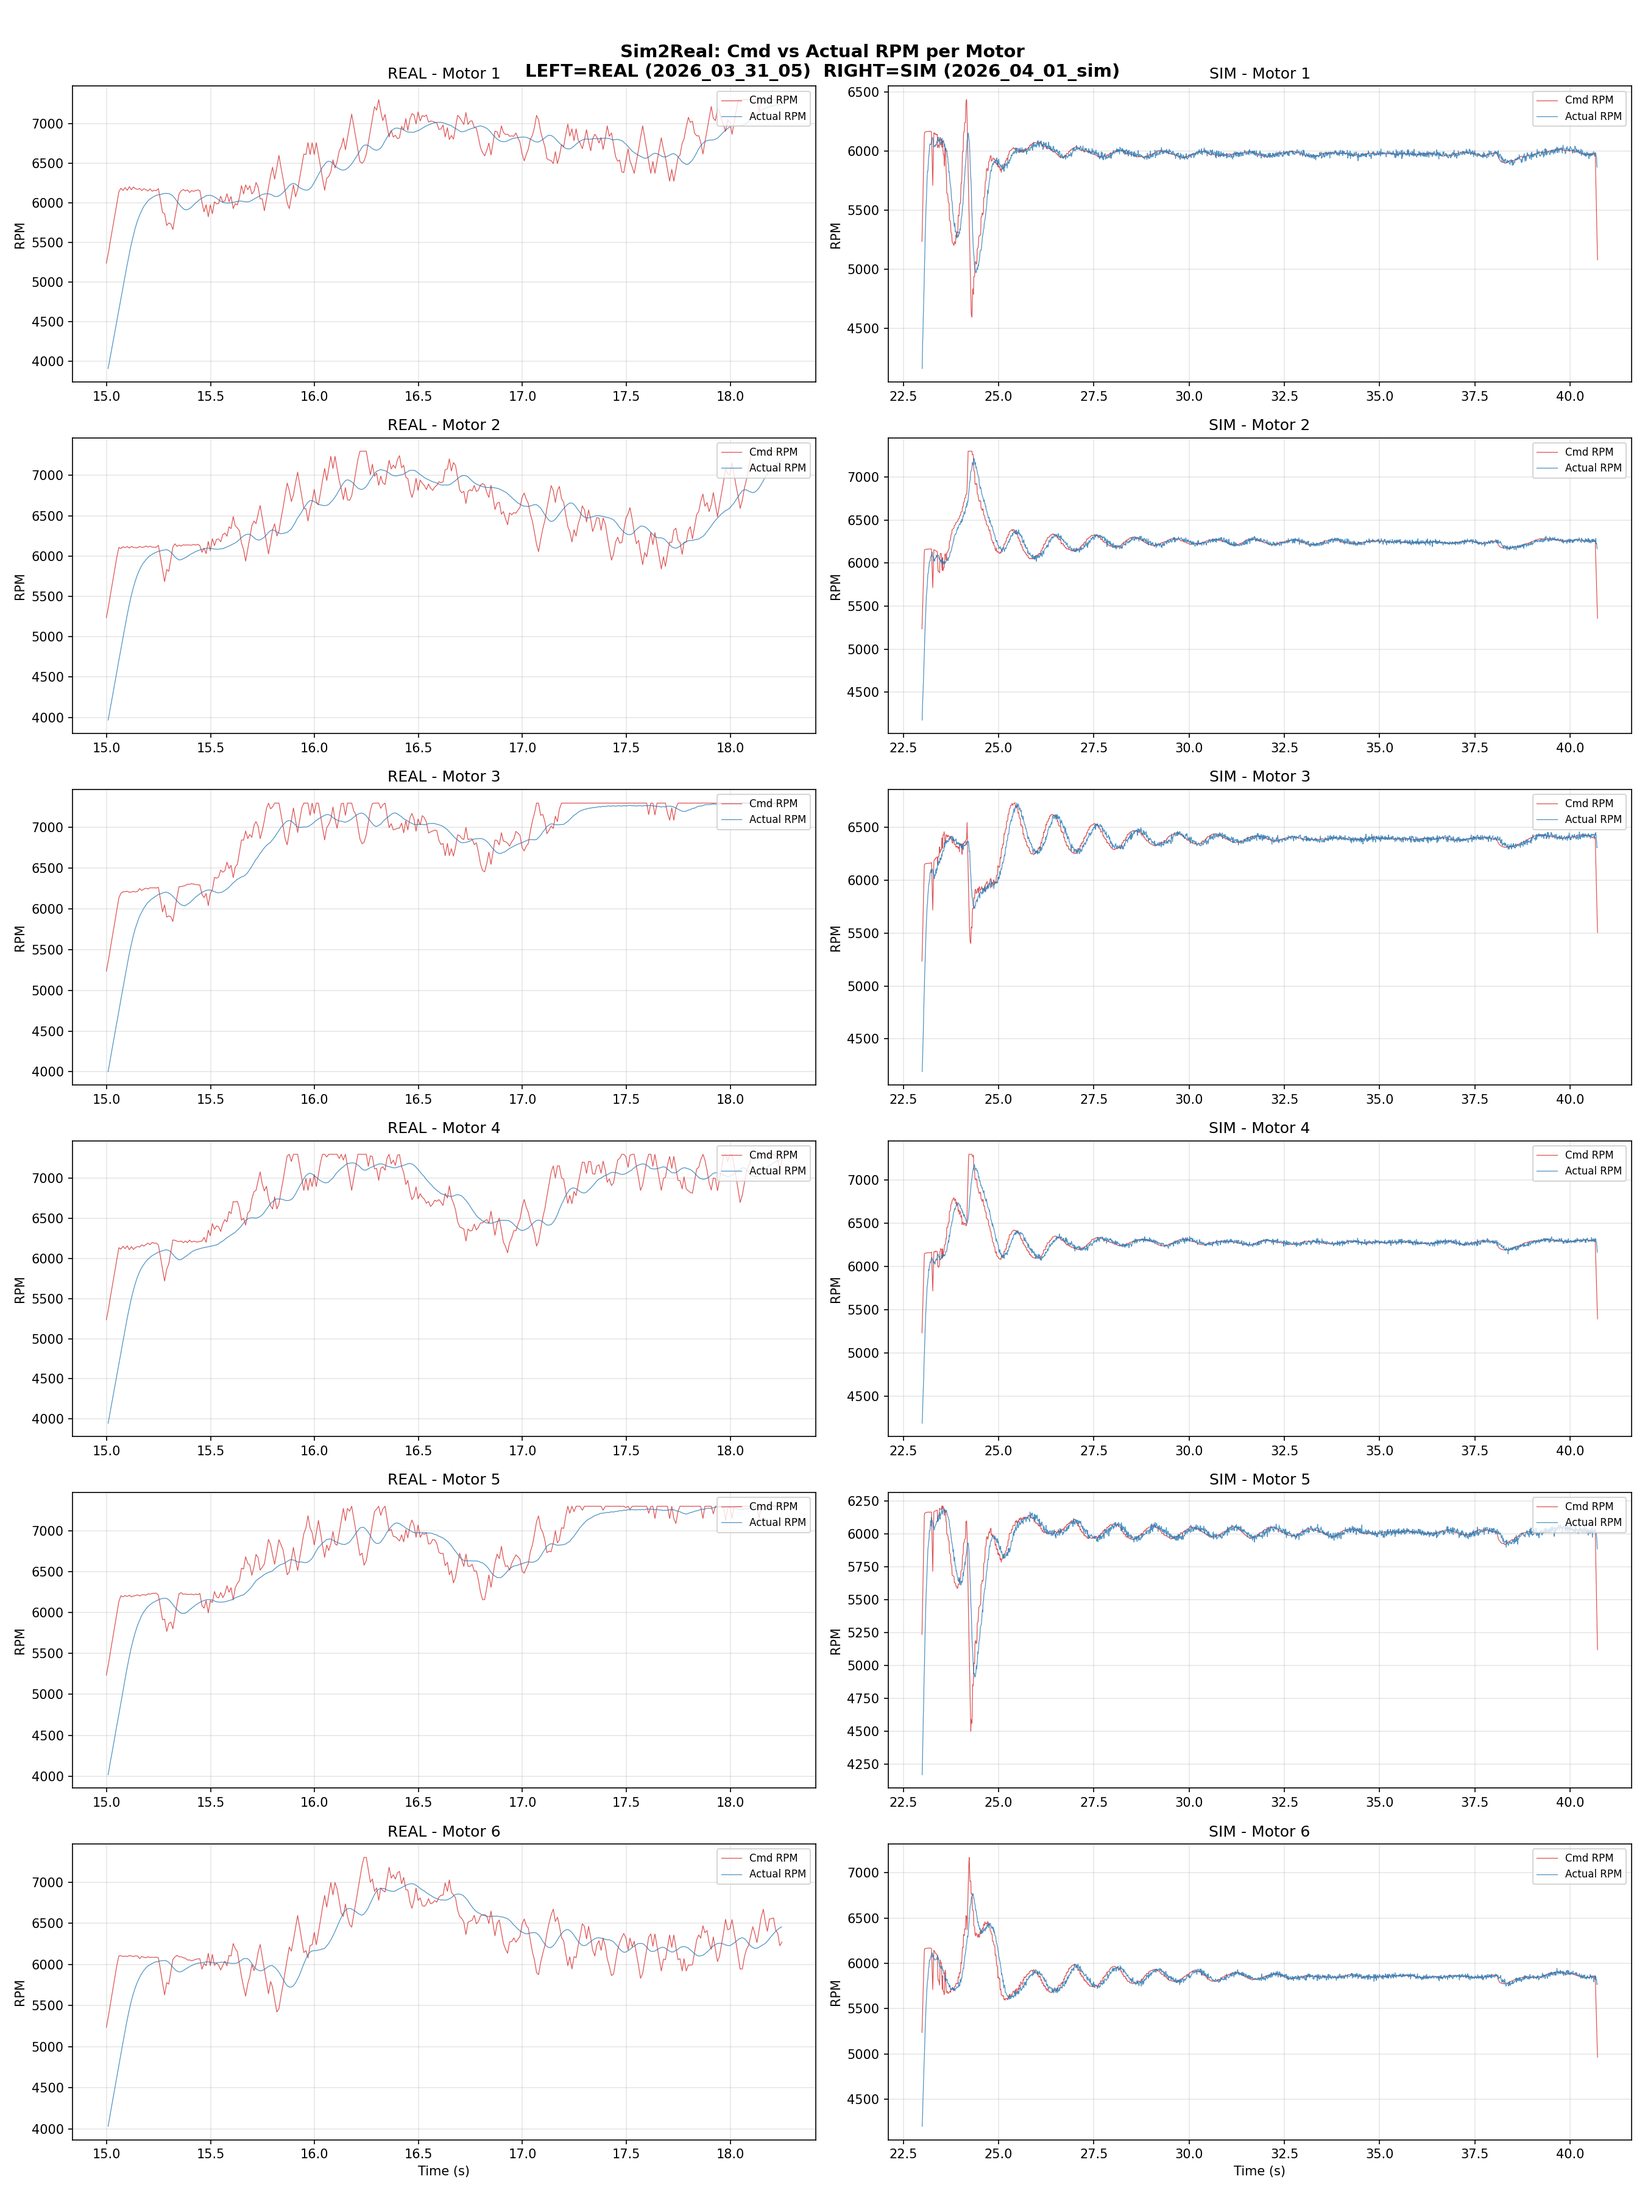
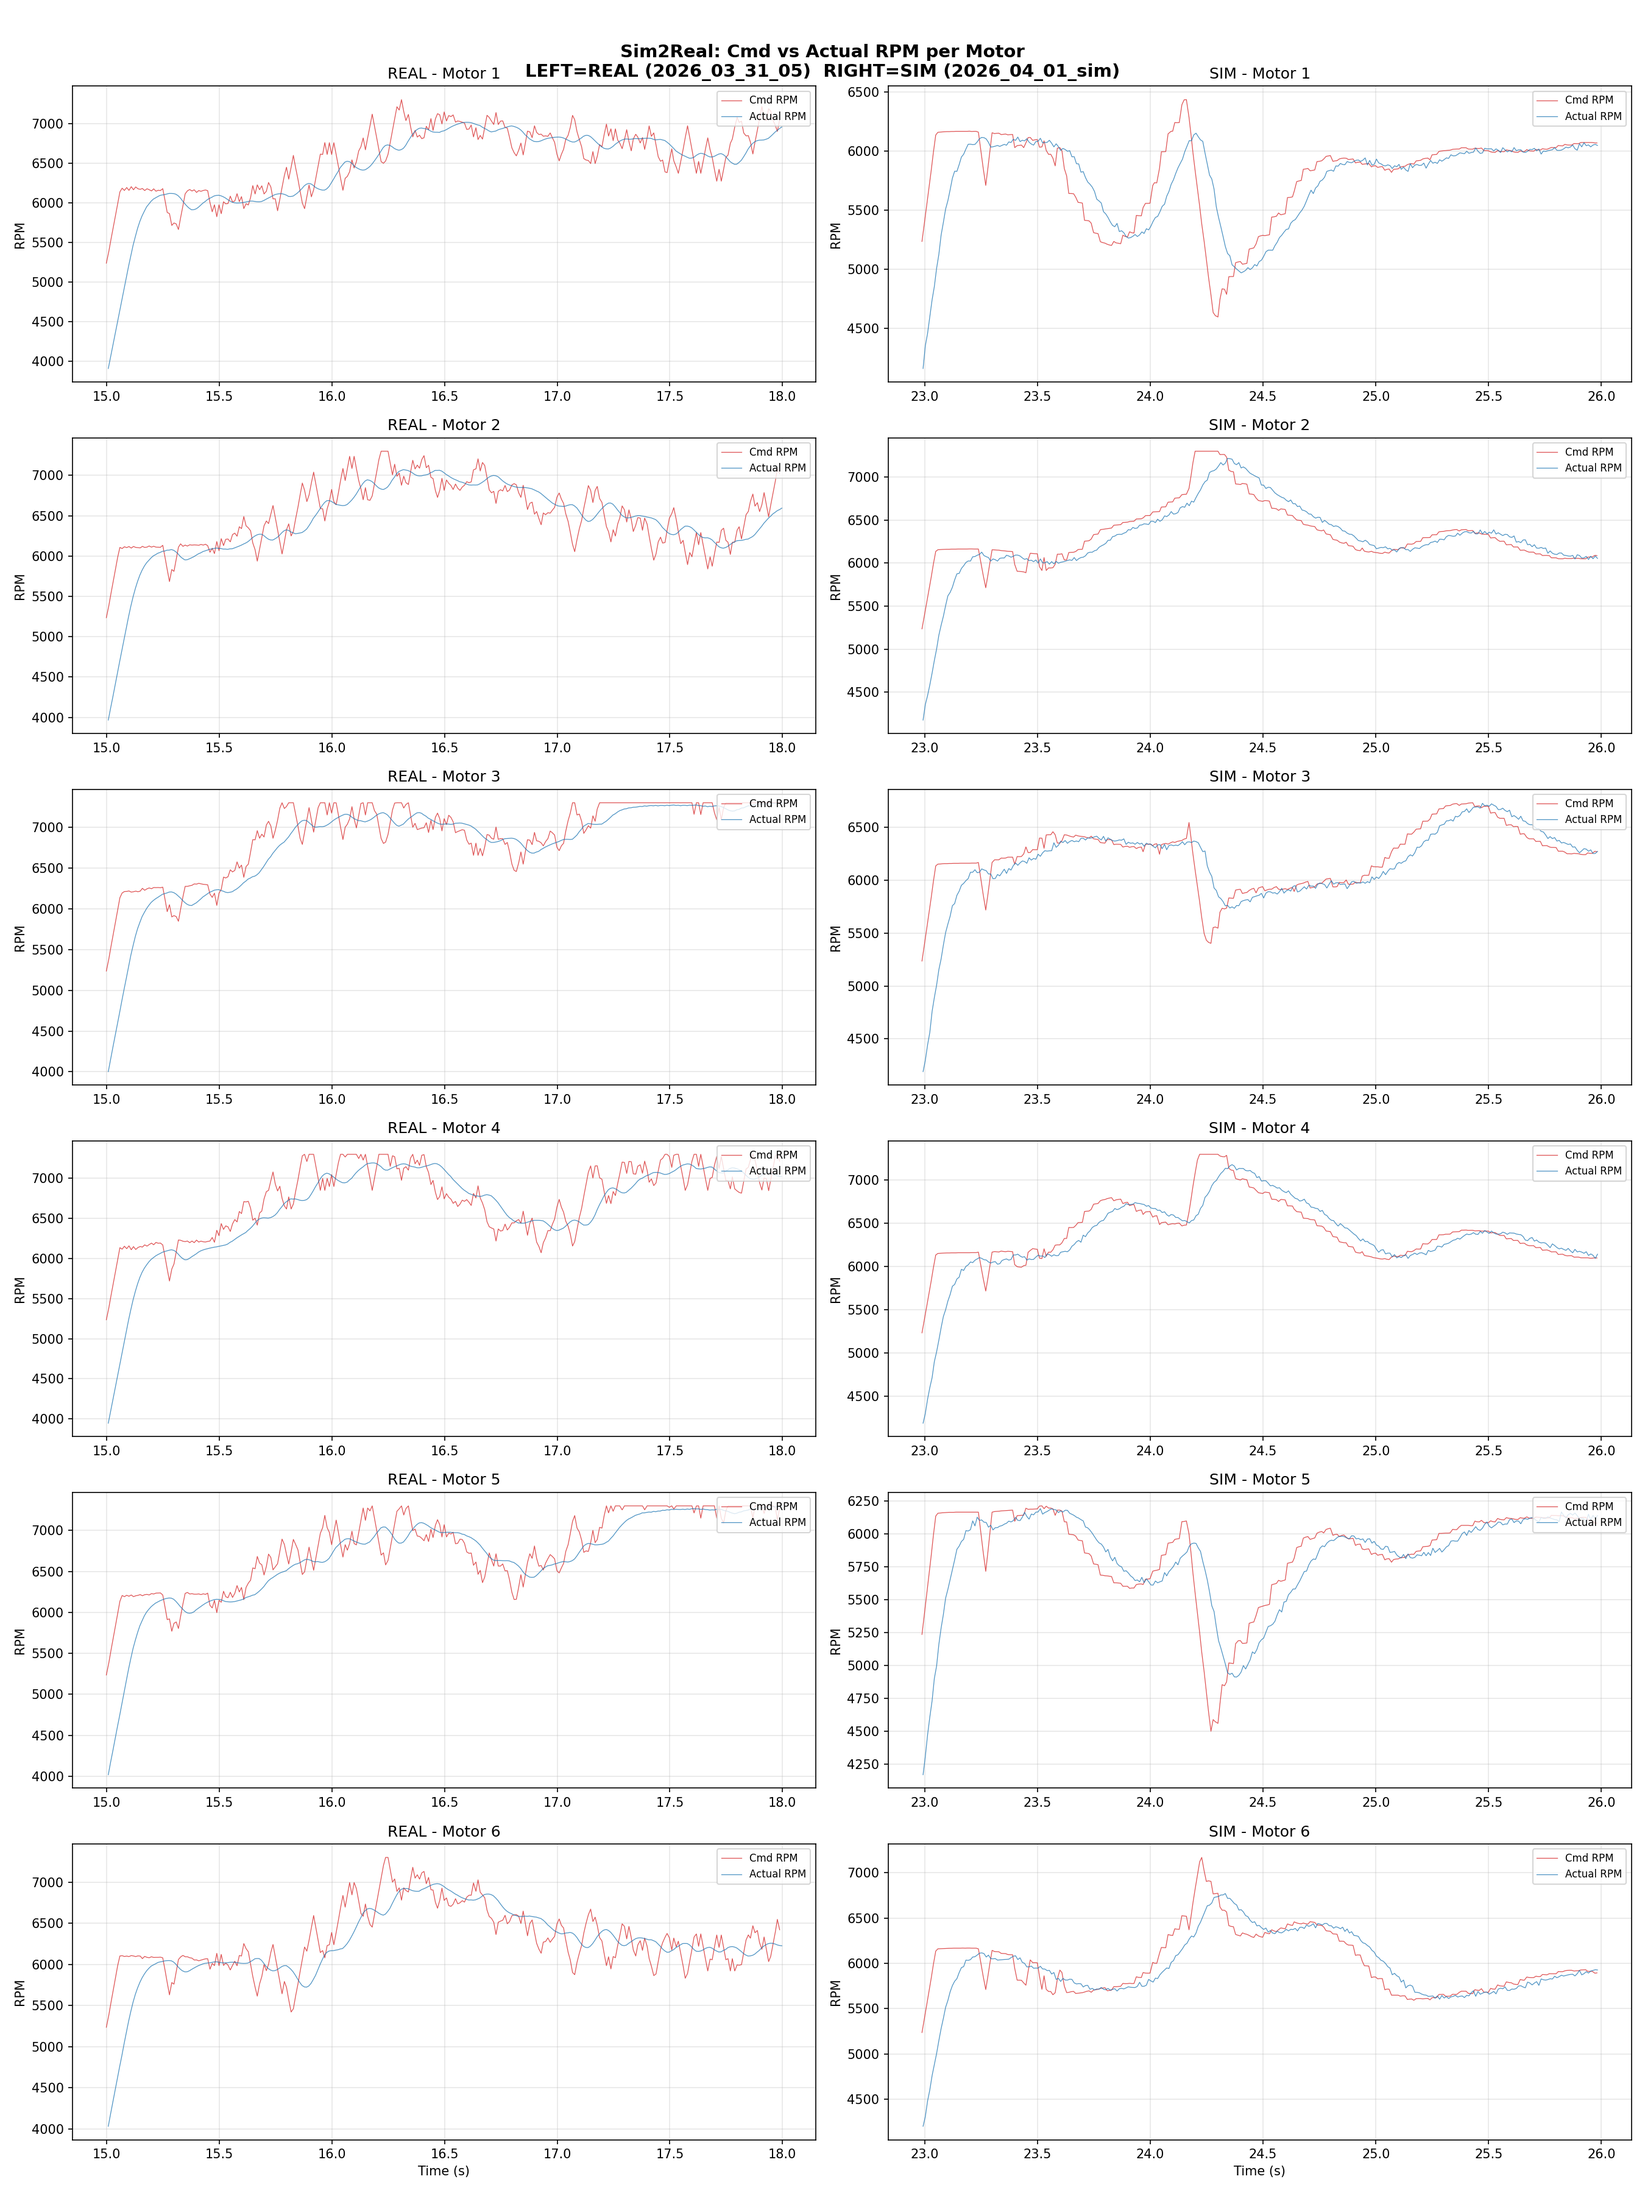
Limit RPM plot to 3s duration from flight start for clearer comparison
https://claude.ai/code/session_015hDTXF7MWidPDJrsc9iZ1y

diff --git a/bag_folder/sim2real_comparison.py b/bag_folder/sim2real_comparison.py
@@ -433,9 +433,10 @@ fig, axes = plt.subplots(6, 2, figsize=(18, 24))
 fig.suptitle('Sim2Real: Cmd vs Actual RPM per Motor\n'
              'LEFT=REAL (2026_03_31_05)  RIGHT=SIM (2026_04_01_sim)', fontsize=14, fontweight='bold')
 
+rpm_duration = 3.0  # seconds from flight start
 for col, (d, name, fs, fe) in enumerate([
-    (real, 'REAL', real_start, real_end),
-    (sim, 'SIM', sim_start, sim_end),
+    (real, 'REAL', real_start, real_start + rpm_duration),
+    (sim, 'SIM', sim_start, sim_start + rpm_duration),
 ]):
     rpm_mask = (d['rpm_t'] >= fs) & (d['rpm_t'] <= fe)
     cmd_mask = (d['cmd_t'] >= fs) & (d['cmd_t'] <= fe)
